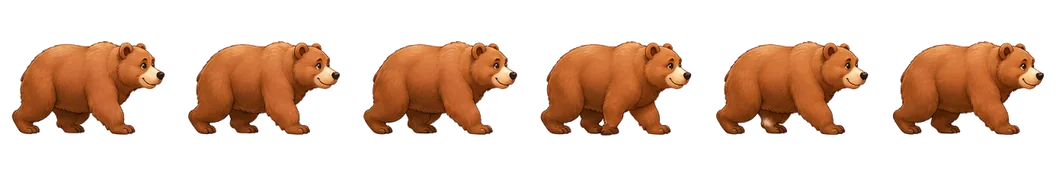
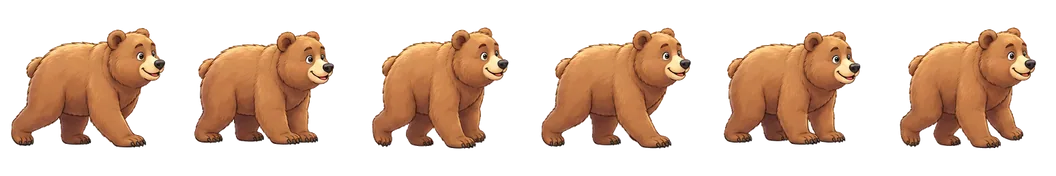
Нова арта ходи ведмедя й лисиці (акварельна, під карту)
Кадри згенеровано за docs/WALK-PROMPT.md, порізано scripts/split-sheet.mjs
і зшито npm run atlas:

- bear.webp, fox.webp — по 6 кадрів 176×176, обидва «обличчям управо»
  (у грі дзеркалить CSS, коли звір тікає вліво);
- стиль тепер акварельно-казковий, як карта й тварини у дворах, а не
  окремий 3D-рендер, що вибивався зі сцени;
- темп кроку різний за звіром: ведмідь перевалюється за 0.55 с на цикл,
  лисиця дріботіть за 0.36 с (раніше обидва 0.4 с);
- спрайти трохи збільшені (ПК: 8.4vw ведмідь / 6.9vw лисиця, телефон:
  100/78 px), бо нові кадри мають поля в комірці.

Джерельні кадри лежать у assets-src/walk/{bear,fox}/ (тека в .gitignore,
як і решта сирців).

diff --git a/src/ui/components/raidLogic.ts b/src/ui/components/raidLogic.ts
@@ -68,9 +68,14 @@ export function raidPath(raider: 'fox' | 'bear'): { x: number; y: number }[] {
  * Темп 0.4 с на цикл — швидше за тварин у дворі (там 1–3 с): хижак БІЖИТЬ,
  * а не пасеться. Шість кадрів за 0.4 с дають плавний біг, не мерехтіння.
  */
-export function raidWalkVars(): Record<string, string> {
+export function raidWalkVars(raider: 'fox' | 'bear' = 'fox'): Record<string, string> {
   return {
-    ['--walk-dur' as string]: '0.4s',
+    /*
+     * Темп кроку різний за звіром: ведмідь важкий і перевалюється повільніше
+     * (0.55 с на цикл), лисиця дріботіть швидко (0.36 с). Спільні 0.4 с
+     * робили ведмедя метушливим, а лисицю — загальмованою.
+     */
+    ['--walk-dur' as string]: raider === 'bear' ? '0.55s' : '0.36s',
     ['--delay' as string]: '-0.15s',
     ['--waddle' as string]: '3deg',
     ['--flip' as string]: '-1',

diff --git a/src/ui/components/BoardScene.module.css b/src/ui/components/BoardScene.module.css
@@ -260,8 +260,8 @@
  */
 .raidRunSprite {
   display: block;
-  width: clamp(64px, 6.4vw, 120px);
-  height: clamp(64px, 6.4vw, 120px);
+  width: clamp(70px, 6.9vw, 128px);
+  height: clamp(70px, 6.9vw, 128px);
   object-fit: contain;
   filter: drop-shadow(0 8px 8px rgba(0, 0, 0, 0.4));
 }
@@ -289,15 +289,15 @@
 
 .mobileRaidSprite {
   display: block;
-  width: 76px;
-  height: 76px;
+  width: 78px;
+  height: 78px;
   object-fit: contain;
   filter: drop-shadow(0 6px 6px rgba(0, 0, 0, 0.4));
 }
 
 .mobileRaid--bear .mobileRaidSprite {
-  width: 96px;
-  height: 96px;
+  width: 100px;
+  height: 100px;
 }
 
 /*
@@ -407,8 +407,8 @@
 
 /* Ведмідь більший за лисицю — так і має бути. */
 .raidRun--bear .raidRunSprite {
-  width: clamp(80px, 7.6vw, 146px);
-  height: clamp(80px, 7.6vw, 146px);
+  width: clamp(88px, 8.4vw, 156px);
+  height: clamp(88px, 8.4vw, 156px);
 }
 
 /*

diff --git a/src/ui/components/RaidRun.tsx b/src/ui/components/RaidRun.tsx
@@ -42,7 +42,7 @@ export function RaidRun({ event, deltaKey }: RaidRunProps) {
   });
 
   // Якщо стрічки кадрів немає — `WalkToken` покаже статичний спрайт.
-  const walkVars = WALK_SHEETS[raider] ? raidWalkVars() : {};
+  const walkVars = WALK_SHEETS[raider] ? raidWalkVars(raider) : {};
 
   return (
     <span
@@ -84,7 +84,7 @@ export function MobileRaid({
   if (!raider) return null;
 
   const meta = PREDATORS[raider];
-  const walkVars = WALK_SHEETS[raider] ? raidWalkVars() : {};
+  const walkVars = WALK_SHEETS[raider] ? raidWalkVars(raider) : {};
 
   return (
     <span
